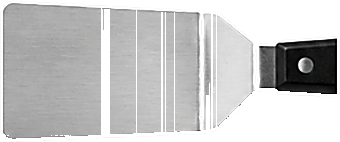
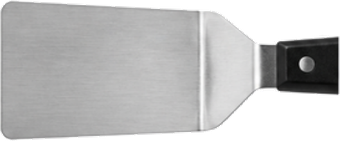
fix: make spatula blade 100% solid and restore full handle

diff --git a/app.js b/app.js
@@ -43,36 +43,36 @@ const BREADS = [
   {
     id: 'brioche',
     name: { es: 'Brioche', pt: 'Brioche' },
-    topImg: 'assets/bun_brioche_top.png?v=4',
-    bottomImg: 'assets/bun_brioche_bottom.png?v=4',
-    iconImg: 'assets/bun_brioche_icon.png?v=4',
+    topImg: 'assets/bun_brioche_top.png?v=5',
+    bottomImg: 'assets/bun_brioche_bottom.png?v=5',
+    iconImg: 'assets/bun_brioche_icon.png?v=5',
     bottomThickness: 22,
     topHeight: 54,
   },
   {
     id: 'australiano',
     name: { es: 'Australiano', pt: 'Australiano' },
-    topImg: 'assets/bun_australiano_top.png?v=4',
-    bottomImg: 'assets/bun_australiano_bottom.png?v=4',
-    iconImg: 'assets/bun_australiano_icon.png?v=4',
+    topImg: 'assets/bun_australiano_top.png?v=5',
+    bottomImg: 'assets/bun_australiano_bottom.png?v=5',
+    iconImg: 'assets/bun_australiano_icon.png?v=5',
     bottomThickness: 22,
     topHeight: 54,
   },
   {
     id: 'batata',
     name: { es: 'Papa', pt: 'Batata' },
-    topImg: 'assets/bun_batata_top.png?v=4',
-    bottomImg: 'assets/bun_batata_bottom.png?v=4',
-    iconImg: 'assets/bun_batata_icon.png?v=4',
+    topImg: 'assets/bun_batata_top.png?v=5',
+    bottomImg: 'assets/bun_batata_bottom.png?v=5',
+    iconImg: 'assets/bun_batata_icon.png?v=5',
     bottomThickness: 22,
     topHeight: 52,
   },
   {
     id: 'parmesao',
     name: { es: 'Parmesano', pt: 'Parmesão' },
-    topImg: 'assets/bun_parmesao_top.png?v=4',
-    bottomImg: 'assets/bun_parmesao_bottom.png?v=4',
-    iconImg: 'assets/bun_parmesao_icon.png?v=4',
+    topImg: 'assets/bun_parmesao_top.png?v=5',
+    bottomImg: 'assets/bun_parmesao_bottom.png?v=5',
+    iconImg: 'assets/bun_parmesao_icon.png?v=5',
     bottomThickness: 22,
     topHeight: 55,
   },
@@ -90,7 +90,7 @@ const INGREDIENTS = [
     id: 'carne',
     name: { es: 'Carne', pt: 'Carne' },
     price: 8,
-    img: 'assets/carne.png?v=4',
+    img: 'assets/carne.png?v=5',
     category: 'protein',
     baseSlot: 50,
     thickness: 17,
@@ -101,7 +101,7 @@ const INGREDIENTS = [
     id: 'cheddar',
     name: { es: 'Cheddar', pt: 'Cheddar' },
     price: 4,
-    img: 'assets/cheddar.png?v=4',
+    img: 'assets/cheddar.png?v=5',
     category: 'cheese',
     baseSlot: 54,
     thickness: 8,
@@ -112,7 +112,7 @@ const INGREDIENTS = [
     id: 'prato',
     name: { es: 'Gouda', pt: 'Prato' },
     price: 4,
-    img: 'assets/prato.png?v=4',
+    img: 'assets/prato.png?v=5',
     category: 'cheese',
     baseSlot: 55,
     thickness: 8,
@@ -123,7 +123,7 @@ const INGREDIENTS = [
     id: 'frango',
     name: { es: 'Pollo crispy', pt: 'Frango' },
     price: 7,
-    img: 'assets/frango.png?v=4',
+    img: 'assets/frango.png?v=5',
     category: 'protein',
     baseSlot: 52,
     thickness: 18,
@@ -134,7 +134,7 @@ const INGREDIENTS = [
     id: 'bacon',
     name: { es: 'Bacon', pt: 'Bacon' },
     price: 5,
-    img: 'assets/bacon.png?v=4',
+    img: 'assets/bacon.png?v=5',
     category: 'topping_hot',
     baseSlot: 76,
     thickness: 10,
@@ -145,7 +145,7 @@ const INGREDIENTS = [
     id: 'ovo',
     name: { es: 'Huevo', pt: 'Ovo' },
     price: 4,
-    img: 'assets/ovo.png?v=4',
+    img: 'assets/ovo.png?v=5',
     category: 'topping_hot',
     baseSlot: 82,
     thickness: 11,
@@ -156,7 +156,7 @@ const INGREDIENTS = [
     id: 'caramelizada',
     name: { es: 'Caramelizada', pt: 'Caramelizada' },
     price: 4,
-    img: 'assets/caramelizada.png?v=4',
+    img: 'assets/caramelizada.png?v=5',
     category: 'topping_hot',
     baseSlot: 79,
     thickness: 10,
@@ -167,7 +167,7 @@ const INGREDIENTS = [
     id: 'onion_rings',
     name: { es: 'Onion rings', pt: 'Onion rings' },
     price: 5,
-    img: 'assets/onion_rings.png?v=4',
+    img: 'assets/onion_rings.png?v=5',
     category: 'topping_crispy',
     baseSlot: 86,
     thickness: 14,
@@ -178,7 +178,7 @@ const INGREDIENTS = [
     id: 'cebola_roxa',
     name: { es: 'Cebolla morada', pt: 'Cebola roxa' },
     price: 2,
-    img: 'assets/cebola_roxa.png?v=4',
+    img: 'assets/cebola_roxa.png?v=5',
     category: 'veggie',
     baseSlot: 34,
     thickness: 9,
@@ -189,7 +189,7 @@ const INGREDIENTS = [
     id: 'picles',
     name: { es: 'Pepinillos', pt: 'Picles' },
     price: 2,
-    img: 'assets/picles.png?v=4',
+    img: 'assets/picles.png?v=5',
     category: 'veggie',
     baseSlot: 30,
     thickness: 8,
@@ -200,7 +200,7 @@ const INGREDIENTS = [
     id: 'jalapeno',
     name: { es: 'Jalapeño', pt: 'Jalapeño' },
     price: 3,
-    img: 'assets/jalapeno.png?v=4',
+    img: 'assets/jalapeno.png?v=5',
     category: 'veggie',
     baseSlot: 38,
     thickness: 8,
@@ -211,7 +211,7 @@ const INGREDIENTS = [
     id: 'tomate',
     name: { es: 'Tomate', pt: 'Tomate' },
     price: 2,
-    img: 'assets/tomate.png?v=4',
+    img: 'assets/tomate.png?v=5',
     category: 'veggie',
     baseSlot: 26,
     thickness: 10,
@@ -222,7 +222,7 @@ const INGREDIENTS = [
     id: 'alface',
     name: { es: 'Lechuga', pt: 'Alface' },
     price: 2,
-    img: 'assets/alface.png?v=4',
+    img: 'assets/alface.png?v=5',
     category: 'veggie',
     baseSlot: 22,
     thickness: 12,
@@ -233,7 +233,7 @@ const INGREDIENTS = [
     id: 'molho_casa',
     name: { es: 'Salsa casa', pt: 'Molho da casa' },
     price: 2,
-    img: 'assets/molho_casa.png?v=4',
+    img: 'assets/molho_casa.png?v=5',
     category: 'sauce',
     baseSlot: 12,
     thickness: 6,
@@ -245,7 +245,7 @@ const INGREDIENTS = [
     id: 'barbecue',
     name: { es: 'Barbecue', pt: 'Barbecue' },
     price: 2,
-    img: 'assets/barbecue.png?v=4',
+    img: 'assets/barbecue.png?v=5',
     category: 'sauce',
     baseSlot: 16,
     thickness: 6,
@@ -257,7 +257,7 @@ const INGREDIENTS = [
     id: 'mostarda_mel',
     name: { es: 'Mostaza miel', pt: 'Mostarda mel' },
     price: 3,
-    img: 'assets/mostarda_mel.png?v=4',
+    img: 'assets/mostarda_mel.png?v=5',
     category: 'sauce',
     baseSlot: 14,
     thickness: 6,
@@ -269,7 +269,7 @@ const INGREDIENTS = [
     id: 'maionese',
     name: { es: 'Mayonesa', pt: 'Maionese' },
     price: 0,
-    img: 'assets/maionese.png?v=4',
+    img: 'assets/maionese.png?v=5',
     category: 'sauce',
     baseSlot: 10,
     thickness: 6,
@@ -281,7 +281,7 @@ const INGREDIENTS = [
     id: 'sriracha',
     name: { es: 'Sriracha', pt: 'Sriracha' },
     price: 2,
-    img: 'assets/sriracha.png?v=4',
+    img: 'assets/sriracha.png?v=5',
     category: 'sauce',
     baseSlot: 18,
     thickness: 6,
@@ -656,17 +656,17 @@ function spawnKitchenUtensil(ing, gapBottomY) {
   sprite.alt = '';
 
   if (ing.tool === 'spatula') {
-    sprite.src = 'assets/tool_spatula.png?v=4';
+    sprite.src = 'assets/tool_spatula.png?v=5';
     sprite.className = 'utensil-sprite utensil-spatula';
     sprite.style.setProperty('--utensil-bottom', `${gapBottomY - 6}px`);
     dom.utensilLayer.appendChild(sprite);
   } else if (ing.tool === 'tongs') {
-    sprite.src = 'assets/tool_tongs.png?v=4';
+    sprite.src = 'assets/tool_tongs.png?v=5';
     sprite.className = 'utensil-sprite utensil-tongs';
     sprite.style.setProperty('--utensil-bottom', `${gapBottomY + 8}px`);
     dom.utensilLayer.appendChild(sprite);
   } else if (ing.tool === 'bottle') {
-    sprite.src = 'assets/tool_bottle.png?v=4';
+    sprite.src = 'assets/tool_bottle.png?v=5';
     sprite.className = 'utensil-sprite utensil-bottle';
     sprite.style.setProperty('--utensil-bottom', `${gapBottomY + 26}px`);
     dom.utensilLayer.appendChild(sprite);
